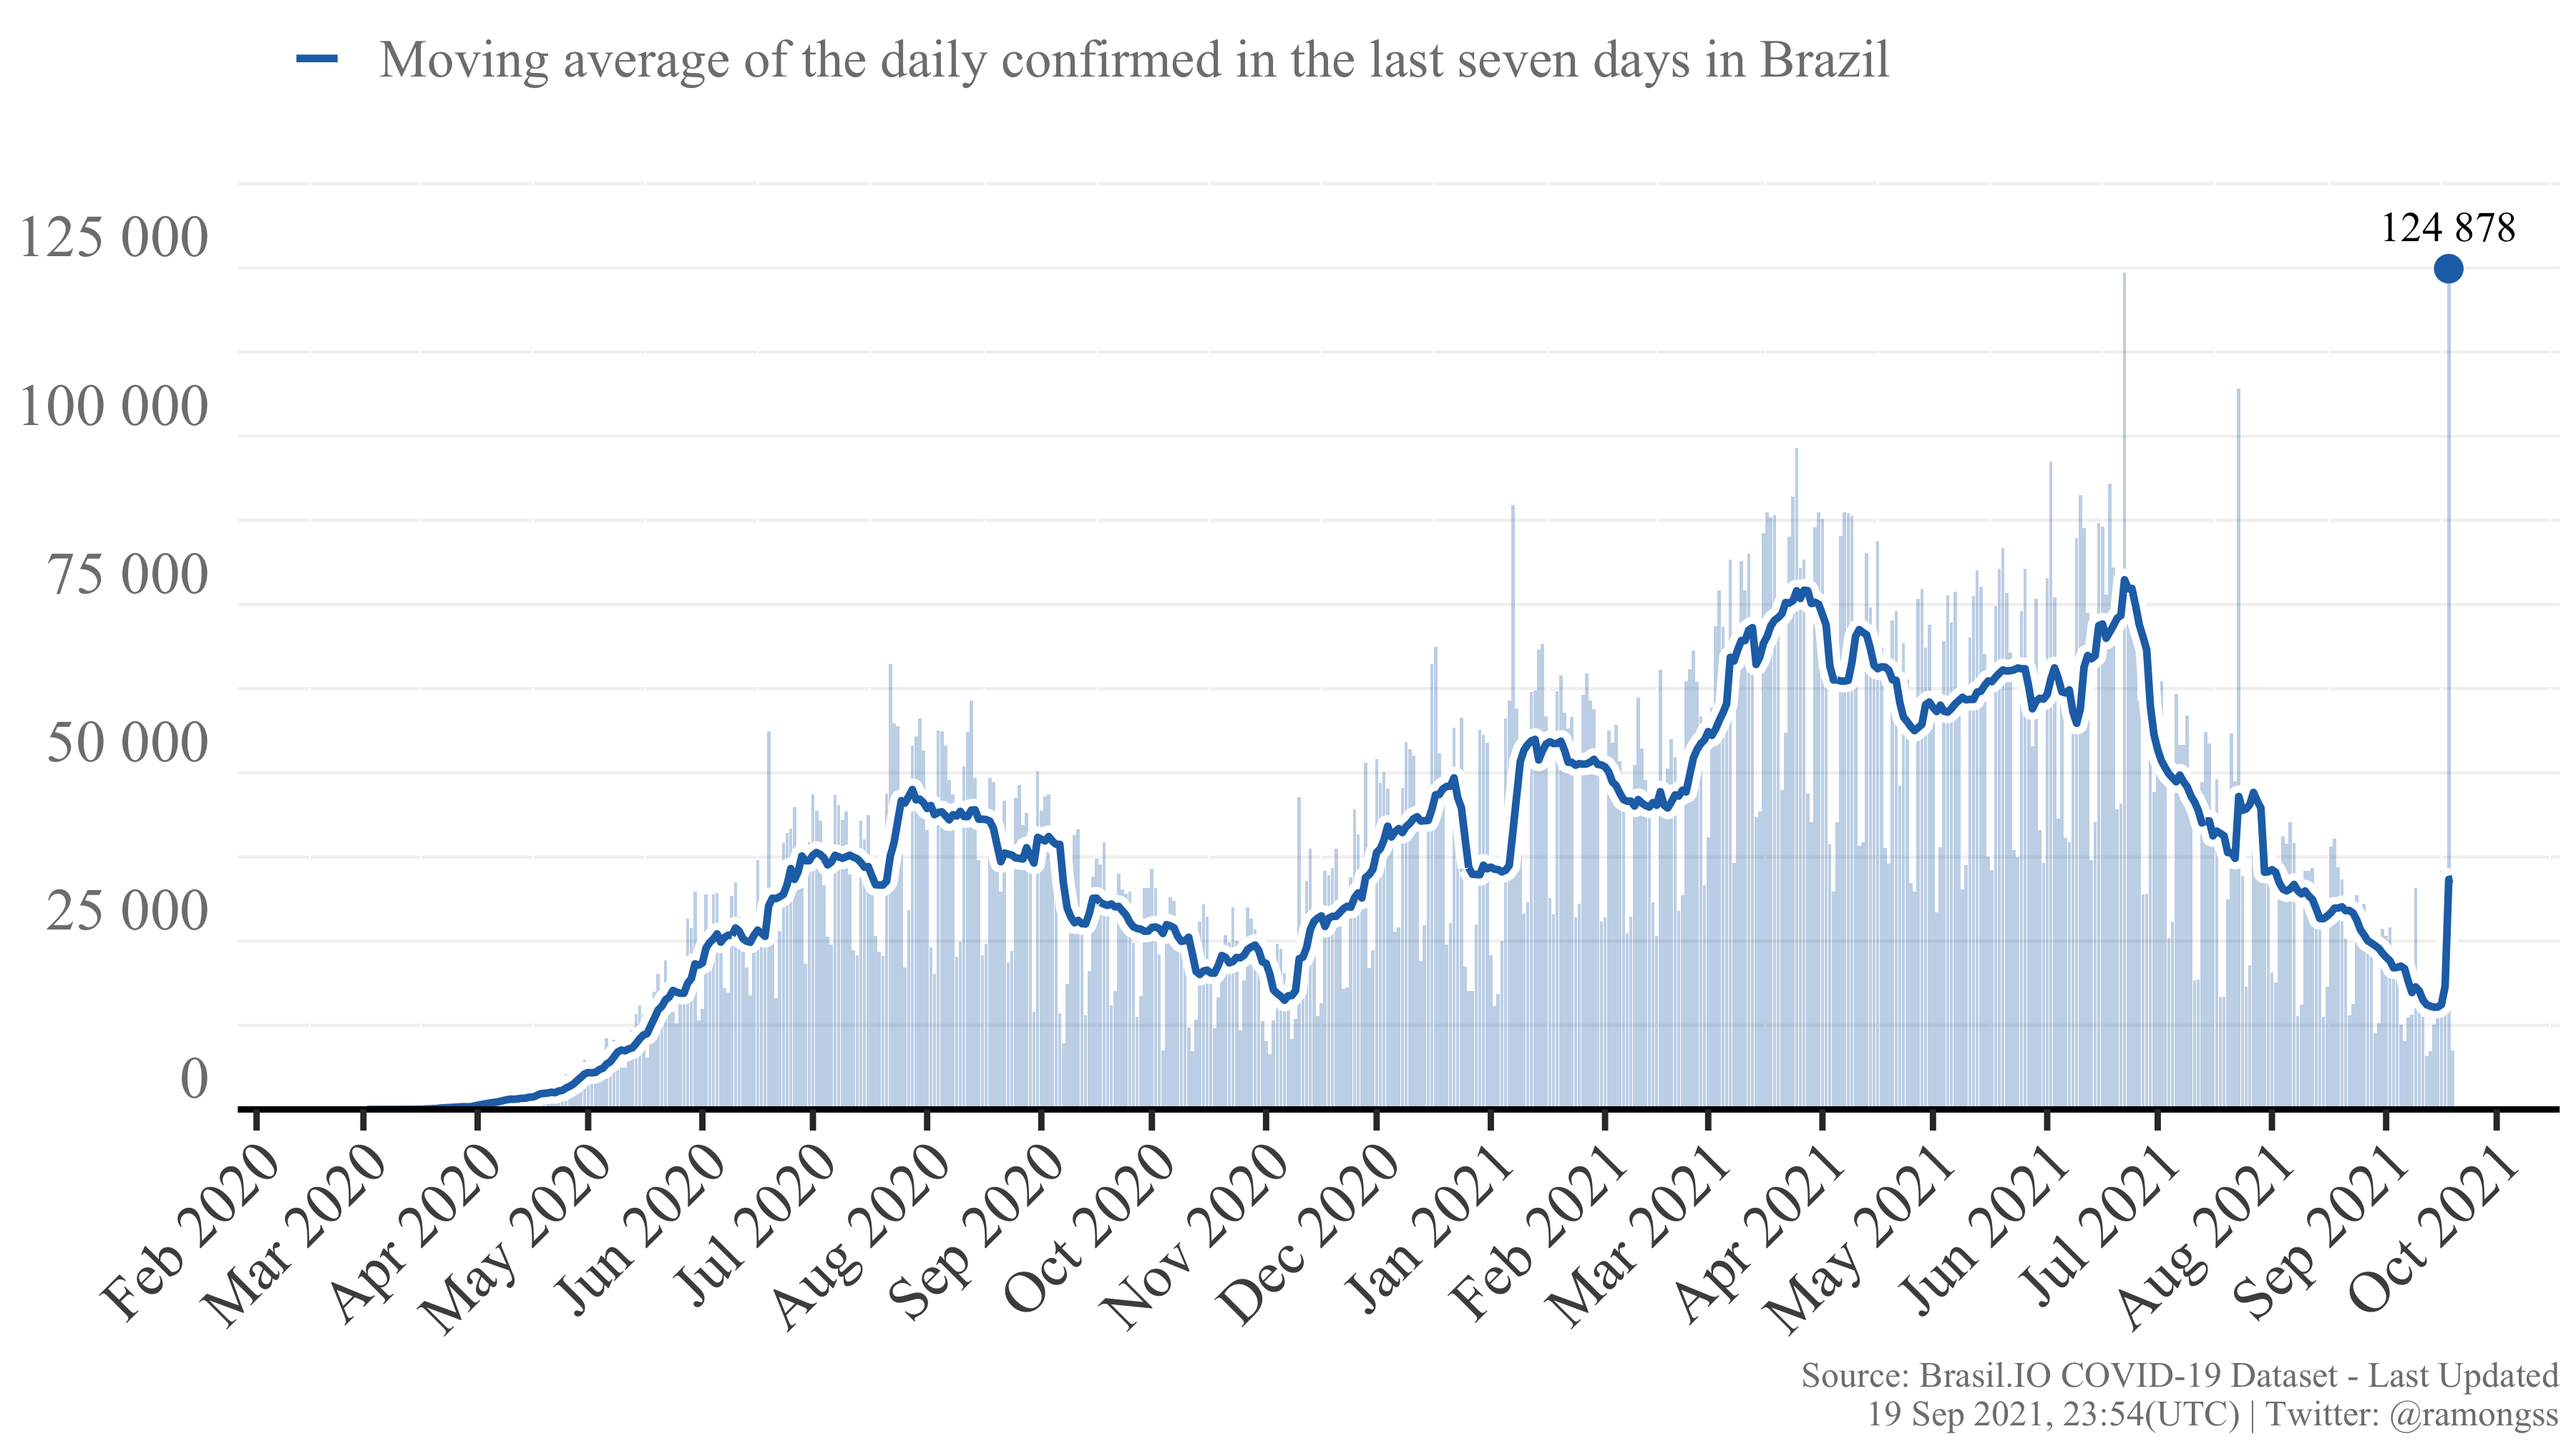
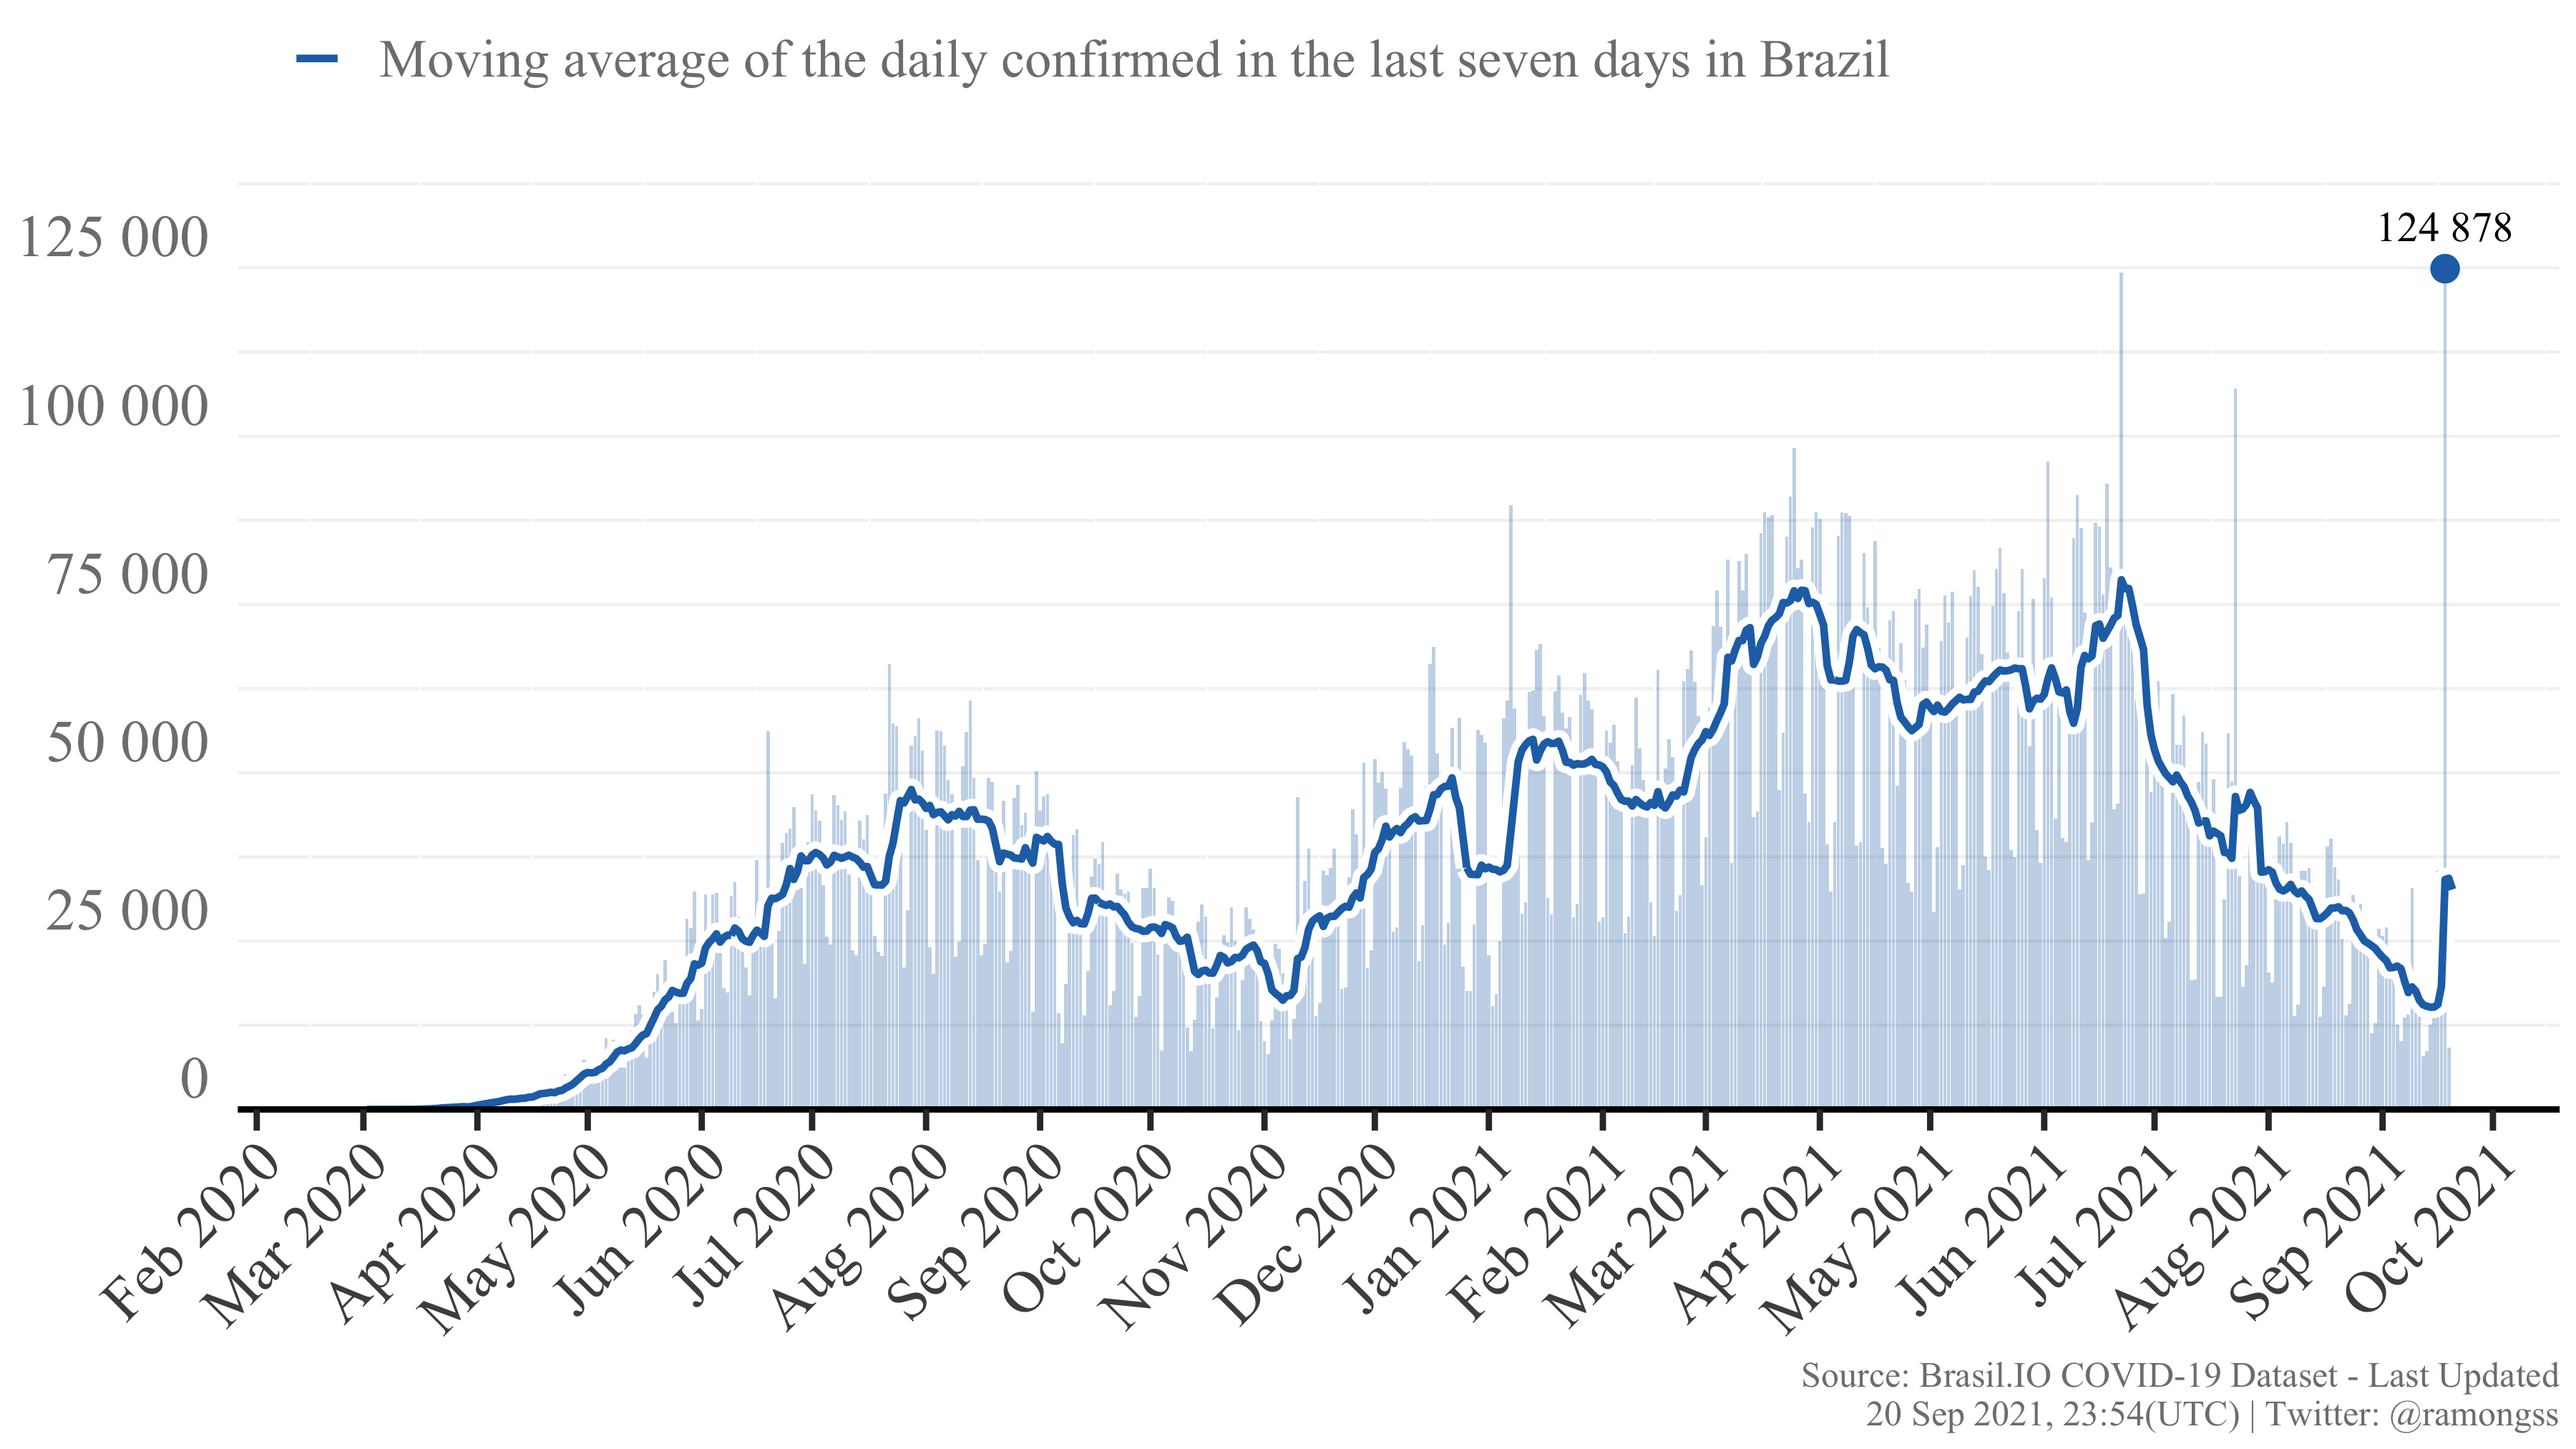
Re-build README.Rmd

diff --git a/README.md b/README.md
@@ -27,8 +27,8 @@ download_brasilio_table <- function(dataset = "covid19", table_name){
 
 ## COVID-19 Confirmed cases
 
-Currently, Brazil has a total of **21,243,330** confirmed cases at **19
-Sep, 2021**, with **8,757** new confirmed cases. The daily maximum
+Currently, Brazil has a total of **21,240,753** confirmed cases at **20
+Sep, 2021**, with **-2,993** new confirmed cases. The daily maximum
 incidence was **124,878** confirmed cases at **18 Sep, 2021**. Here
 follows the Figure showing the confirmed case incidence as the bars, and
 the line as the moving average of the last 7 days.
@@ -37,8 +37,8 @@ the line as the moving average of the last 7 days.
 
 ## COVID-19 Deaths
 
-Currently, Brazil has a total of **590,998** deaths at **19 Sep, 2021**,
-with **232** new deaths. The daily maximum deaths incidence was
+Currently, Brazil has a total of **591,271** deaths at **20 Sep, 2021**,
+with **257** new deaths. The daily maximum deaths incidence was
 **4,148** deaths at **08 Apr, 2021**. Here follows the Figure showing
 the deaths incidence as the bars, and the line as the moving average of
 the last 7 days.
@@ -49,4 +49,4 @@ the last 7 days.
 
 This page is daily updated automatically using Github Actions.
 
-*Last update: 19 Sep 2021, 23:54 (UTC).*
+*Last update: 20 Sep 2021, 23:54 (UTC).*
